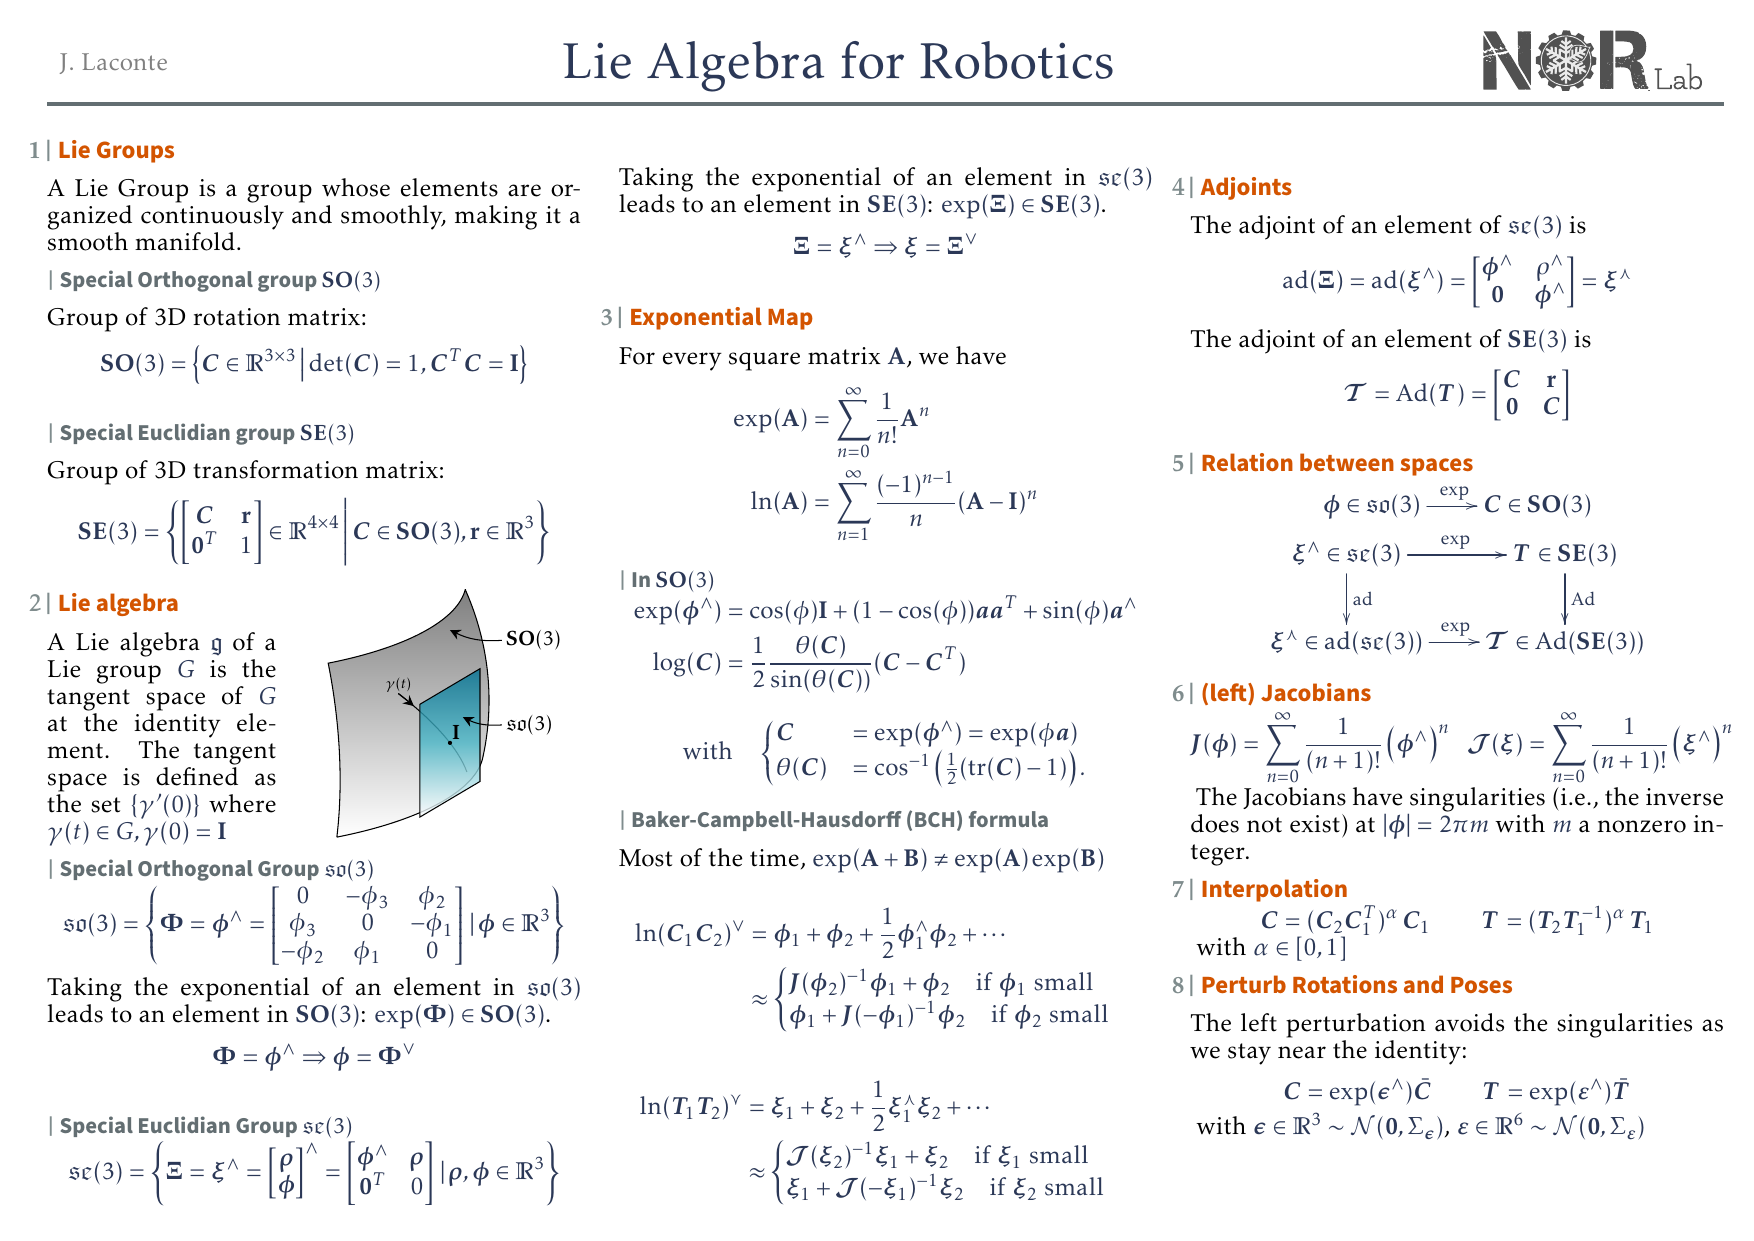
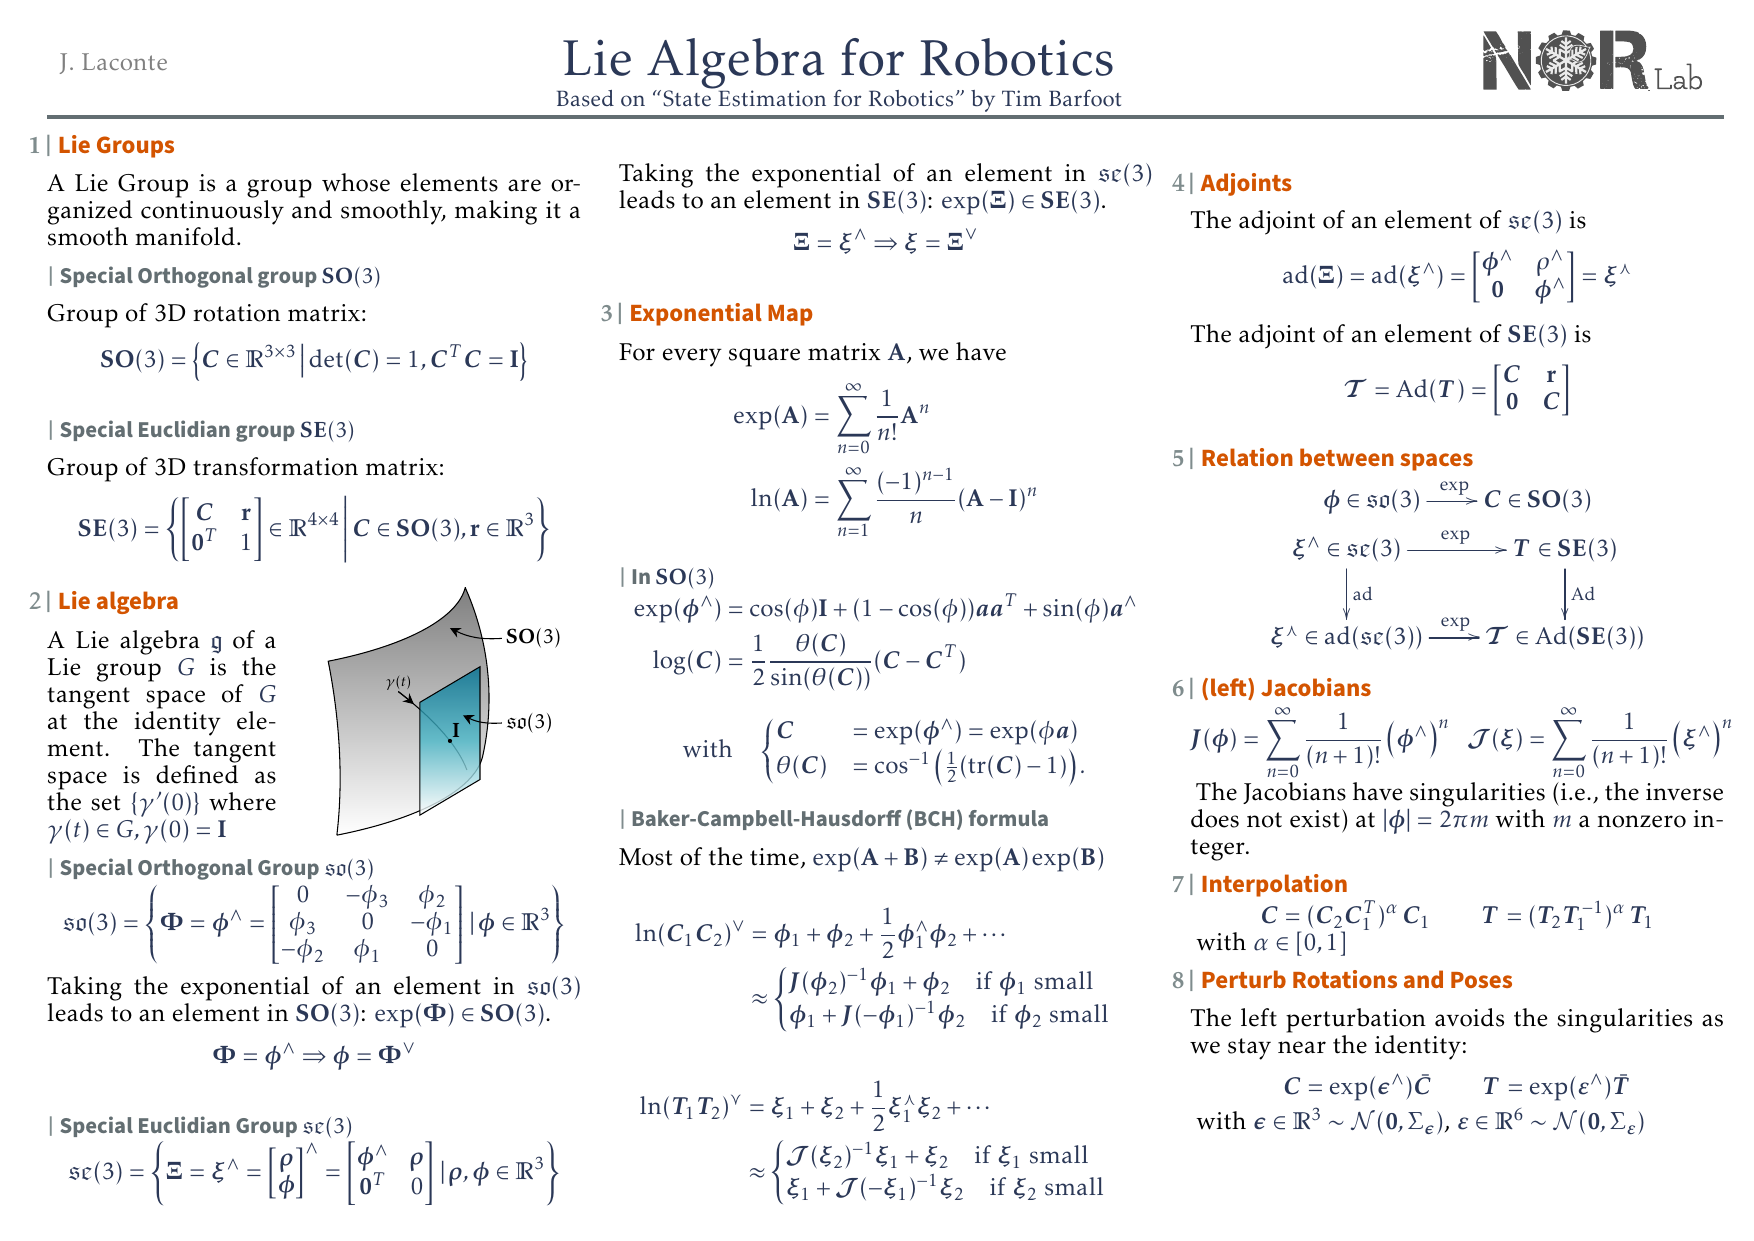
add ref to Tim's book

diff --git a/cheatsheet_template/template.tex b/cheatsheet_template/template.tex
@@ -47,11 +47,15 @@
 \newcommand{\header}{
     \begin{tabular}{L{.2\linewidth} C{.5\linewidth} R{.25\linewidth}}
 		\textcolor{gray}{J. Laconte} &% author
-    {\huge Lie Algebra for Robotics } &% Title
+		\begin{minipage}{\linewidth}\centering%
+		{\huge Lie Algebra for Robotics }\\ %
+		{\small \href{http://asrl.utias.utoronto.ca/~tdb/}{Based on ``State Estimation for Robotics'' by Tim Barfoot}}%
+		\end{minipage}&% Title
 	\href{https://norlab.ulaval.ca/}{\includegraphics[height=2.5em]{cheatsheet_template/norlab_logo_acronym_dark.pdf}} %logo with url embedded
     \end{tabular}
-    
+
     \noindent\textcolor{americanRiver}{\rule{\textwidth}{2pt}}
+	\vskip-0.7em
 }
 
 \pagestyle{empty}

diff --git a/main.tex b/main.tex
@@ -32,6 +32,7 @@
 
 \begin{document}
 \header
+ \vskip0em %Need this vskip for the one in the header to work, weird
 \begin{multicols*}{3}
 \section{Lie Groups}
 	A Lie Group is a group whose elements are organized continuously and smoothly, making it a smooth manifold.
